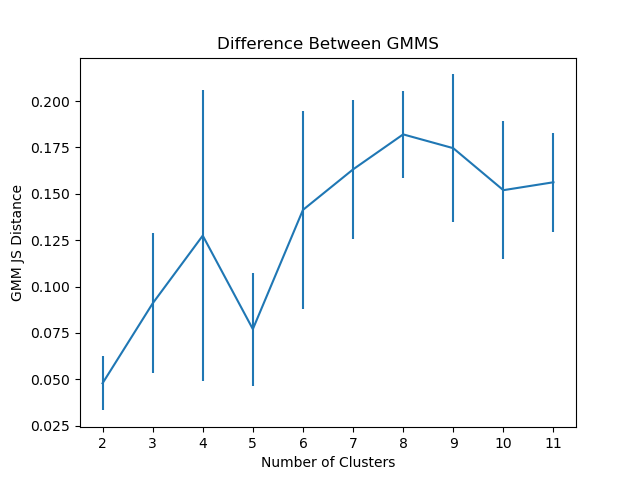
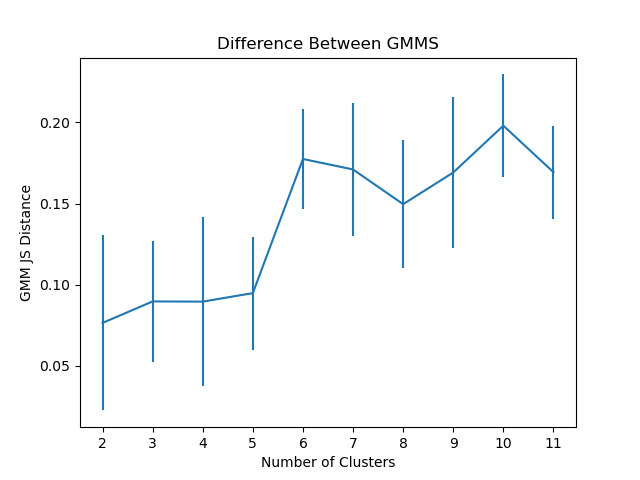
feat: add and run pca cluster evaluation pipeline for reflectance data

diff --git a/scripts/clustering/cluster_evaluation.py b/scripts/clustering/cluster_evaluation.py
@@ -2,28 +2,54 @@ import scripts.clustering.BIC as BIC
 import scripts.clustering.silhouette as SIL
 import scripts.clustering.gmm_distance as JS
 import scripts.preprocessing.preprocessing as pre
-print("hiiiii")
+import scripts.pca as PCA
 
-def get_clustering_evaluations(subdir, keywords, param_ranges, 
+
+def raw_evaluation_pipeline(subdir, keywords, param_ranges, 
                            latRng = [85, 95], lngRng = [230, 330], 
                            cluster_rng = [2, 10],
                             cm_num = 1):
     
     [input_arr, subset_shape] = pre.get_input_array(keywords, param_ranges, latRng, lngRng, cm_num)
-    print("got input:")
-    pix_arr = input_arr[:, 0: len(keywords)]
-    #fig = plt.subplots(3, 1)
+    pix_arr = input_arr[:, 0: len(keywords)] 
+  
     print("doing bic:")
     fig_bic  = BIC.create_bic_plot(pix_arr, cluster_rng)
     print("doing sil:")
     fig_sil = SIL.silhouette_graph(pix_arr, cluster_rng)
-    # print("doing js:")
-    #fig_js = JS.create_js_plot(pix_arr, cluster_rng)
+    print("doing js:")
+    fig_js = JS.create_js_plot(pix_arr, cluster_rng)
     keyword_str = "_".join(keywords)
 
     fig_bic.savefig(f"cluster_evaluations/{subdir}/BIC_plot_{keyword_str}")
     fig_sil.savefig(f"cluster_evaluations/{subdir}/sil_plot_{keyword_str}")
-    #fig_js.savefig(f"cluster_evaluations/{subdir}/js_plot_{keyword_str}")
+    fig_js.savefig(f"cluster_evaluations/{subdir}/js_plot_{keyword_str}")
+
+def pca_evaluation_pipeline(subdir, keywords, param_ranges, 
+                           latRng = [85, 95], lngRng = [230, 330], 
+                           cluster_rng = [2, 10],
+                            cm_num = 1):
+    
+    [input_arr, subset_shape] = pre.get_input_array(keywords, param_ranges, latRng, lngRng, cm_num)
+    pix_arr = input_arr[:, 0: len(keywords)] 
+    pca_reduced = PCA.get_pca_comp(input_arr[:, 0:len(keywords)])
+    keyword_str = "_".join(keywords)
+
+    print("doing bic:")
+    fig_bic  = BIC.create_bic_plot(pca_reduced, cluster_rng)
+    fig_bic.savefig(f"cluster_evaluations/{subdir}/BIC_plot_{keyword_str}_pca")
+    print("doing sil:")
+    fig_sil = SIL.silhouette_graph(pca_reduced, cluster_rng)
+    fig_sil.savefig(f"cluster_evaluations/{subdir}/sil_plot_{keyword_str}_pca")
+    print("doing js:")
+    fig_js = JS.create_js_plot(pca_reduced, cluster_rng)
+    fig_js.savefig(f"cluster_evaluations/{subdir}/js_plot_{keyword_str}_pca")
+
+
+
+
+
+    
 
 lon_range = [0, 30]
 lat_range = [0, 15]
@@ -33,11 +59,12 @@ lat_range = [90 - lat_range[1], 90 - lat_range[0]]
 
 cluster_rng = [2, 12]
 
-get_clustering_evaluations("20251016UTc/lon_0-30", ["NH3", "PCld"], [[0, 300], [1000,  3000]], lat_range, lon_range, cluster_rng, 1)
-# get_clustering_evaluations("20251016UTc/lon_0-30", ["AOI", "CI"], [[0.1, 0.4], [0.4, 0.8]], lat_range, lon_range, cluster_rng, 1)
-# get_clustering_evaluations("20251016UTc/lon_0-30", ["275", "395", "502", "619", "631", "645", "673", "727", "889"], 
-#                  [[0, 1], [0,  1], [0,  1], [0,  1], [0,  1], [0,  1], [0,  1], [0,  1], [0,  1]], lat_range, lon_range, cluster_rng, 1)
+#raw_evaluation_pipeline("20251016UTc/lon_0-30", ["NH3", "PCld"], [[0, 300], [1000,  3000]], lat_range, lon_range, cluster_rng, 1)
+# raw_evaluation_pipeline("20251016UTc/lon_0-30", ["AOI", "CI"], [[0.1, 0.4], [0.4, 0.8]], lat_range, lon_range, cluster_rng, 1)
+pca_evaluation_pipeline("20251016UTc/lon_0-30", ["275", "395", "502", "619", "631", "645", "673", "727", "889"], 
+                 [[0, 1], [0,  1], [0,  1], [0,  1], [0,  1], [0,  1], [0,  1], [0,  1], [0,  1]], lat_range, lon_range, cluster_rng, 1)
 
 
-#get_clustering_evaluations("20251016UTc/lon_0-30", ["NH3", "PCld", "AOI", "CI"], [[0, 300], [1000,  3000], [0.1, 0.4], [0.4, 0.8]], lat_range, lon_range, cluster_rng, 1)
+#raw_evaluation_pipeline("20251016UTc/lon_0-30", ["NH3", "PCld", "AOI", "CI"], [[0, 300], [1000,  3000], [0.1, 0.4], [0.4, 0.8]], lat_range, lon_range, cluster_rng, 1)
 
+#pca_evaluation_pipeline("20251016UTc/lon_0-30", ["NH3", "PCld", "AOI", "CI"], [[0, 300], [1000,  3000], [0.1, 0.4], [0.4, 0.8]], lat_range, lon_range, cluster_rng, 1)

diff --git a/scripts/processes.py b/scripts/processes.py
@@ -17,6 +17,7 @@ import pylab as pl
 from pathlib import Path
 import scripts.plotting_processes as PPL
 import scripts.pca as PCA
+import scripts.clustering.cluster_evaluation as EV
 
 
 
@@ -179,9 +180,6 @@ def pca_pipeline(date, keywords, param_ranges,
     PP.create_uncertainty_fig(keywords, probs, indices, subset_shape, latRng, lngRng, cm_num, n_comp, threshold,  "PCA Reduced", "pca")
     PP.create_max_prob_map(keywords, probs, indices, subset_shape, latRng, lngRng, cm_num, n_comp, threshold, ROI,  "PCA Reduced", "pca")
    
-    
-
-
 
 # Run processes for longitude 0 - 30, latitude 90 - 105
 lon_range = [0, 30]
